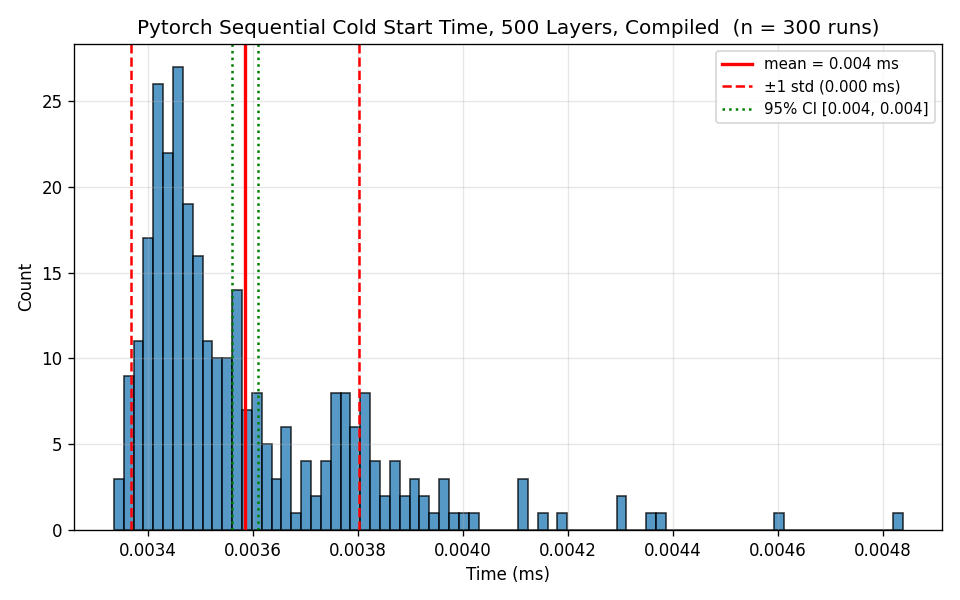
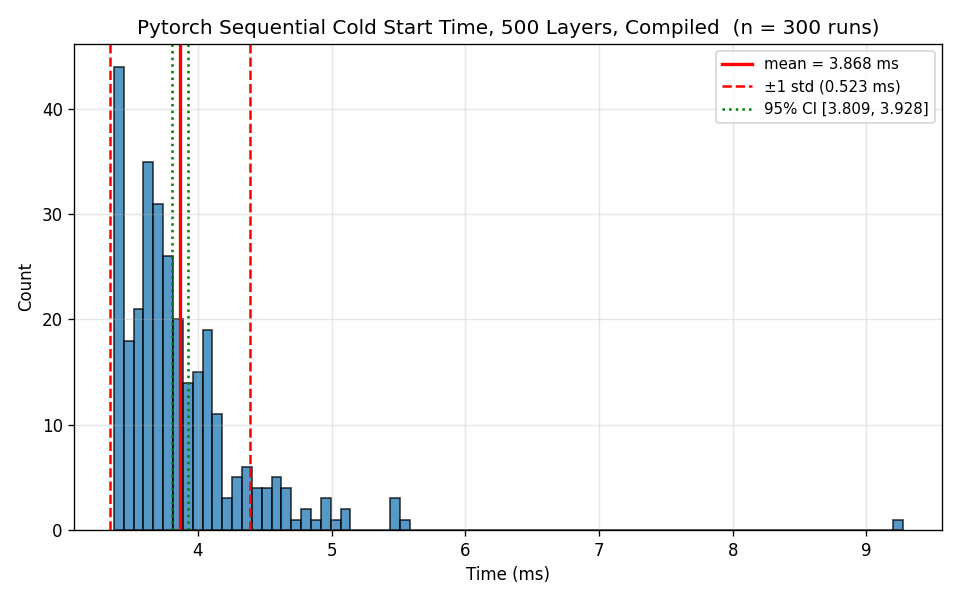
made graphs in ms

diff --git a/src/ai_models/tensorflow_model/tensorflow_sequential.py b/src/ai_models/tensorflow_model/tensorflow_sequential.py
@@ -13,11 +13,11 @@ WARMUP_STEPS = 20
 TIMED_STEPS = 50
 BATCH_SIZE = 64
 NUM_RUNS = 50
-NUM_BUILDS = 300
+NUM_BUILDS = 100
 USE_COMPILE = True
 
-BUILD_TEST_LAYER_NUMS = [10,100,500]
-FORWARD_TEST_LAYER_NUMS = [10,100,500]
+BUILD_TEST_LAYER_NUMS = [10, 100, 500]
+FORWARD_TEST_LAYER_NUMS = [10, 100, 500]
 
 def build_sequential_model(num_layers, num_classes: int=NUM_CLASSES) -> tf.keras.Model:
     layers = []
@@ -51,7 +51,7 @@ def benchmark_cold_start_time(num_layers: int, x: tf.Tensor, compile: bool=USE_C
     _ = infer_fn(x) # time through first pass
     end = time.perf_counter()
 
-    return end-start
+    return (end-start) * 1000
 
 
 def benchmark_forward_times_avg(infer_fn, x: tf.Tensor, timed_steps: int=TIMED_STEPS) -> dict:
@@ -60,7 +60,7 @@ def benchmark_forward_times_avg(infer_fn, x: tf.Tensor, timed_steps: int=TIMED_S
         _ = infer_fn(x)
     end = time.perf_counter()
 
-    return (end-start) / timed_steps
+    return ((end-start) / timed_steps) * 1000
 
 
 def summarize_results_repeated(results):
@@ -197,7 +197,7 @@ def main() -> None:
         plot_benchmark_histogram(forward_results, 
                                  f"TF Sequential Average Forward Time, {num_layers} Layers" + ", " + tag,
                                  dir + hist_results_save_path)
-
+    
 
 if __name__ == "__main__":
     main()

diff --git a/src/ai_models/pytorch_models/pytorch_sequential.py b/src/ai_models/pytorch_models/pytorch_sequential.py
@@ -54,7 +54,7 @@ def benchmark_cold_start_time(num_layers: int, x: torch.Tensor, compile: bool=US
     start = time.perf_counter()
     _ = model(x) # time through first pass
     end = time.perf_counter()
-    return end-start
+    return (end-start) * 1000
 
 
 def benchmark_forward_times_avg(model: nn.Module, x: torch.Tensor, timed_steps: int=TIMED_STEPS) -> float:
@@ -64,7 +64,7 @@ def benchmark_forward_times_avg(model: nn.Module, x: torch.Tensor, timed_steps: 
             _ = model(x)
         end = time.perf_counter()
 
-    return (end-start)/timed_steps
+    return ((end-start)/timed_steps) * 1000
 
 
 def summarize_results_repeated(results):
